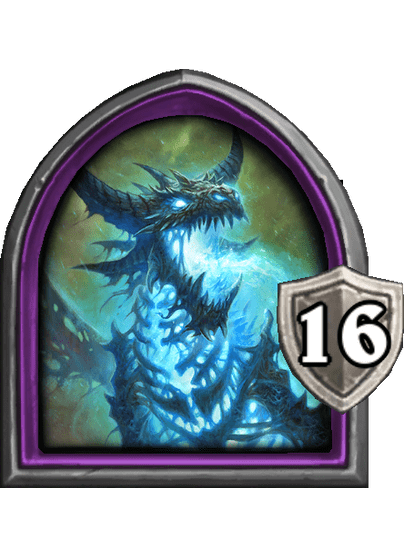
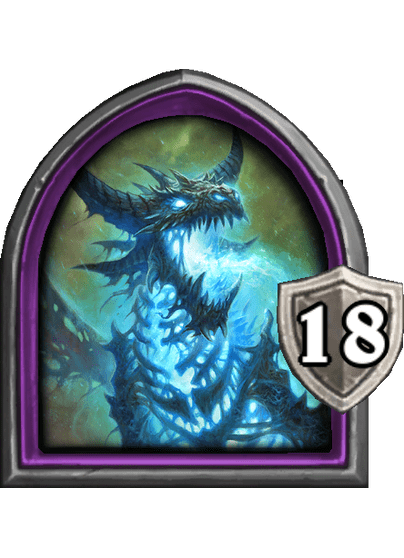
Updated hero portrait images after patch 27.2.2

Changed region(s): [[0.8317, 0.5179, 0.9802, 0.6703]]

diff --git a/images/get_images.php b/images/get_images.php
@@ -5,36 +5,37 @@ require_once('../functions.php');
 $getActiveOnly = 1;
 
 // generate heroes files
-//if ($stmt = $mysqli->prepare("SELECT bgh.id,
-//                                     bgh.name,
-//                                     bgh.health,
-//                                     bgh.id_blizzard,
-//                                     bgh.hp_id_blizzard,
-//                                     bgh.flag_active
-//                                FROM bg_heroes bgh
-//                               WHERE bgh.flag_active = ?
-//                                 AND bgh.name IN ('Cariel Roame', 'Aranna Starseeker', 'The Curator')
-//--                                 AND bgh.id_blizzard IN ('BG26_HERO_101', 'BG26_HERO_102')
-//                            ORDER BY bgh.name ASC")) {
-//    $stmt->bind_param("i", $getActiveOnly);
-//    $stmt->execute();
-//    $stmt->store_result();
-//    $stmt->bind_result($id, $name, $health, $blizzardId, $blizzardIdHp, $isActive);
-
-// generate minions files
-if ($stmt = $mysqli->prepare("SELECT bgm.id,
-                                     bgm.name,
-                                     bgm.name_short,
-                                     bgm.id_blizzard
-                                FROM bg_minions bgm
-                               WHERE bgm.flag_active = ?
---                                 AND bgm.id > 300
-                                 AND bgm.name IN ('Selfless Hero')
-                            ORDER BY bgm.tier, bgm.name ASC")) {
+if ($stmt = $mysqli->prepare("SELECT bgh.id,
+                                     bgh.name,
+                                     bgh.health,
+                                     bgh.id_blizzard,
+                                     bgh.hp_id_blizzard,
+                                     bgh.flag_active
+                                FROM bg_heroes bgh
+                               WHERE bgh.flag_active = ?
+                                 AND bgh.name IN ('Kurtrus Ashfallen')
+--                                 AND bgh.id_blizzard IN ('BG26_HERO_101', 'BG26_HERO_102')
+                            ORDER BY bgh.name ASC")) {
     $stmt->bind_param("i", $getActiveOnly);
     $stmt->execute();
     $stmt->store_result();
-    $stmt->bind_result($id, $name, $nameShort, $blizzardId);
+    $stmt->bind_result($id, $name, $health, $blizzardId, $blizzardIdHp, $isActive);
+
+// generate minions files
+//if ($stmt = $mysqli->prepare("SELECT bgm.id,
+//                                     bgm.name,
+//                                     bgm.name_short,
+//                                     bgm.id_blizzard
+//                                FROM bg_minions bgm
+//                               WHERE 1=1
+//                                 AND bgm.flag_active = ?
+//--                                 AND bgm.id > 0
+//                                 AND bgm.name IN ('Annoy-o-Troupe', 'Wrath Weaver')
+//                            ORDER BY bgm.tier, bgm.name ASC")) {
+//    $stmt->bind_param("i", $getActiveOnly);
+//    $stmt->execute();
+//    $stmt->store_result();
+//    $stmt->bind_result($id, $name, $nameShort, $blizzardId);
 
 // generate buddies files
 //if ($stmt = $mysqli->prepare("SELECT bgb.id,
@@ -44,7 +45,7 @@ if ($stmt = $mysqli->prepare("SELECT bgm.id,
 //                                FROM bg_buddies bgb
 //                               WHERE bgb.flag_active = ?
 //                                 AND bgb.id_blizzard is not null
-//                                 AND bgb.name IN ('Talent Scout')
+//                                 AND bgb.name IN ('Piloted Whirl-O-Tron')
 //                            ORDER BY bgb.tier, bgb.name ASC")) {
 //    $stmt->bind_param("i", $getActiveOnly);
 //    $stmt->execute();
@@ -75,6 +76,19 @@ if ($stmt = $mysqli->prepare("SELECT bgm.id,
 //        $stmt->store_result();
 //        $stmt->bind_result($id, $name, $blizzardId);
 
+// generate anomaly files
+//    if ($stmt = $mysqli->prepare("SELECT bga.id,
+//                                         bga.name,
+//                                         bga.id_blizzard
+//                                FROM bg_anomalies bga
+//                               WHERE 1=1 -- bgq.flag_active = ?
+//                            ORDER BY bga.name ASC")) {
+//        #$stmt->bind_param("i", $getActiveOnly);
+//        $stmt->execute();
+//        $stmt->store_result();
+//        $stmt->bind_result($id, $name, $blizzardId);
+
+
     $row_count = $stmt->num_rows;
     if ($row_count == 0) echo '0 results';
 
@@ -89,38 +103,38 @@ if ($stmt = $mysqli->prepare("SELECT bgm.id,
 //        }
 
         # heropowers
-//        if (!copy(PICTURE_URL_RENDER_BG . $blizzardIdHp . '.png', '../images/' . $blizzardIdHp . '_render.png') ||
-//            !copy(PICTURE_URL_RENDER_BG . $blizzardIdHp . '.png', '../images/convert/' . $blizzardIdHp . '_render.png')
-//          ) {
-//            echo 'failed to copy ../images/' . $blizzardIdHp . '_render.png<br>';
-//        } else {
-//            echo 'copy success ../images/' . $blizzardIdHp . '_render.png<br>';
-//        }
+        if (!copy(PICTURE_URL_RENDER_BG . $blizzardIdHp . '.png', '../images/' . $blizzardIdHp . '_render.png') ||
+            !copy(PICTURE_URL_RENDER_BG . $blizzardIdHp . '.png', '../images/convert/' . $blizzardIdHp . '_render.png')
+        ) {
+            echo 'failed to copy ../images/' . $blizzardIdHp . '_render.png<br>';
+        } else {
+            echo 'copy success ../images/' . $blizzardIdHp . '_render.png<br>';
+        }
 
         # minions / hero pictures
-        if (!copy(PICTURE_URL_RENDER_BG . $blizzardId . '.png', '../images/' . $blizzardId . '_render.png') ||
-            !copy(PICTURE_URL_RENDER_BG . $blizzardId . '.png', '../images/convert/' . $blizzardId . '_render.png')
-        ) {
-            echo 'failed to copy ../images/' . $blizzardId . '_render.png<br>';
-        } else {
-            echo 'copy success ../images/' . $blizzardId . '_render.png<br>';
-        }
+//        if (!copy(PICTURE_URL_RENDER_BG . $blizzardId . '.png', '../images/' . $blizzardId . '_render.png') ||
+//            !copy(PICTURE_URL_RENDER_BG . $blizzardId . '.png', '../images/convert/' . $blizzardId . '_render.png')
+//        ) {
+//            echo 'failed to copy ../images/' . $blizzardId . '_render.png<br>';
+//        } else {
+//            echo 'copy success ../images/' . $blizzardId . '_render.png<br>';
+//        }
 
-        if (!copy(PICTURE_URL_BIG . $blizzardId . '.webp', '../images/' . $blizzardId . '_big.webp')) {
-            echo 'failed to copy ../images/' . $blizzardId . '_big.webp<br>';
-        } else {
-            echo 'copy success ../images/' . $blizzardId . '_big.webp<br>';
-        }
-        if (!copy(PICTURE_URL_MEDIUM . $blizzardId . '.webp', '../images/' . $blizzardId . '_medium.webp')) {
-            echo 'failed to copy ../images/' . $blizzardId . '_medium.webp<br>';
-        } else {
-            echo 'copy success ../images/' . $blizzardId . '_medium.webp<br>';
-        }
-        if (!copy(PICTURE_URL_TILE . $blizzardId . '.webp', '../images/' . $blizzardId . '_tile.webp')) {
-            echo 'failed to copy ../images/' . $blizzardId . '_tile.webp<br>';
-        } else {
-            echo 'copy success ../images/' . $blizzardId . '_tile.webp<br>';
-        }
+//        if (!copy(PICTURE_URL_BIG . $blizzardId . '.webp', '../images/' . $blizzardId . '_big.webp')) {
+//            echo 'failed to copy ../images/' . $blizzardId . '_big.webp<br>';
+//        } else {
+//            echo 'copy success ../images/' . $blizzardId . '_big.webp<br>';
+//        }
+//        if (!copy(PICTURE_URL_MEDIUM . $blizzardId . '.webp', '../images/' . $blizzardId . '_medium.webp')) {
+//            echo 'failed to copy ../images/' . $blizzardId . '_medium.webp<br>';
+//        } else {
+//            echo 'copy success ../images/' . $blizzardId . '_medium.webp<br>';
+//        }
+//        if (!copy(PICTURE_URL_TILE . $blizzardId . '.webp', '../images/' . $blizzardId . '_tile.webp')) {
+//            echo 'failed to copy ../images/' . $blizzardId . '_tile.webp<br>';
+//        } else {
+//            echo 'copy success ../images/' . $blizzardId . '_tile.webp<br>';
+//        }
 
     }
 

diff --git a/images/get_portraits.php b/images/get_portraits.php
@@ -9,6 +9,7 @@ $shortNeedle = 'https://d15f34w2p8l1cc.cloudfront.net/hearthstone/';
 $lastPos     = 0;
 $positions   = array();
 
+// has to match the heroes on the blizzard website!
 $tempHeroes = json_decode(file_get_contents('../bgjson/output/bg_heroes_active.json'));
 
 while (($lastPos = strpos($content, $needle, $lastPos)) !== false) {
